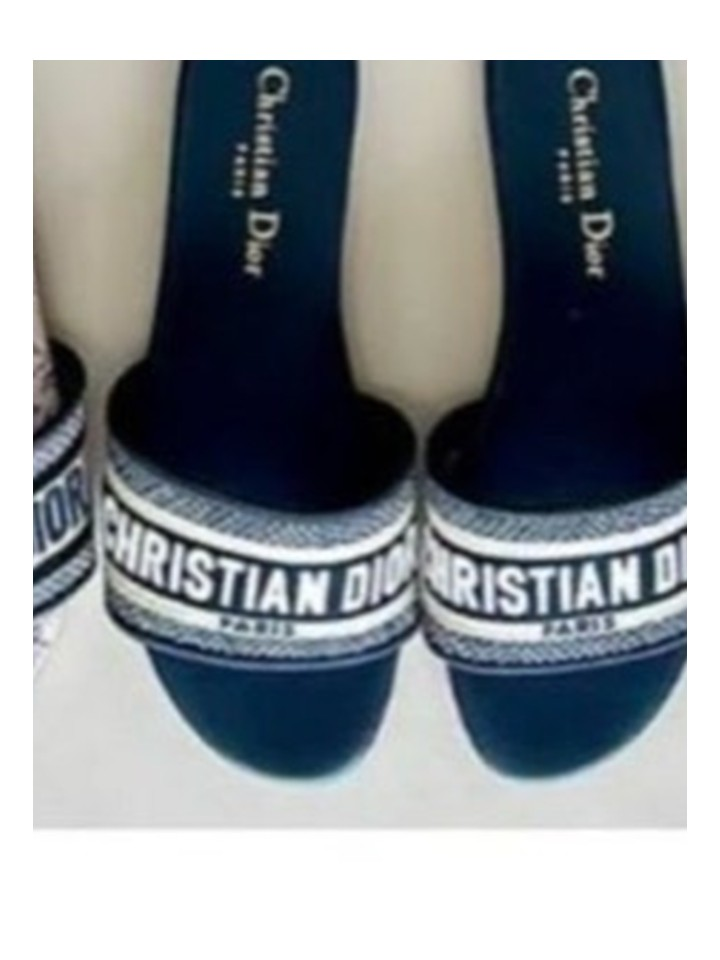
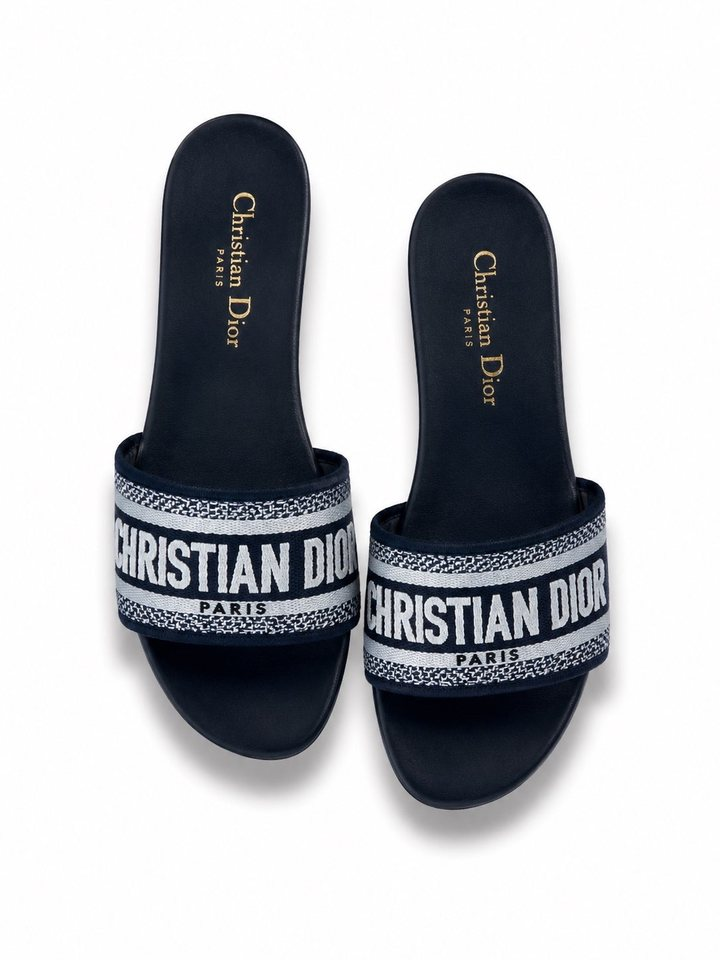
feat: cinq photos studio de plus pour les claquettes Dway
Rose, marine, gris anthracite, ivoire doré et toile rose remplacent des
recadrages pris dans la photo d'inventaire.

Deux coloris changent de nom pour dire ce que la cliente recevra :
« Bleu glacier » devient « Ivoire doré » — la paire est ivoire à motif
doré, sans rien de bleu — et « Lilas » devient « Toile rose », la toile de
Jouy étant rose et non mauve.

Onze des douze coloris ont désormais leur vraie photo. Seul « Noir
profond » attend encore la sienne.

diff --git a/catalog.js b/catalog.js
@@ -204,8 +204,8 @@
         desc: "Claquette à bride textile large, déclinée dans des motifs bleus, noirs et gris." }),
       make({ id: "femme-dior-dway-pastels", name: "Claquette Dway Tons Pastel", audience: "femme", brand: "dior", price: 48000,
         sizes: ["36", "37", "38", "39", "40", "41"], stock: [1, 2, 3, 3, 2, 1],
-        img: "assets/products/femme/dior-dway-rose.jpg", colors: ["Bleu glacier", "Noir profond", "Rose", "Lilas", "Marine", "Gris anthracite"],
-        valueImages: { "Coloris::Bleu glacier": "assets/products/femme/dior-dway-bleu-glacier.jpg", "Coloris::Noir profond": "assets/products/femme/dior-dway-noir-profond.jpg", "Coloris::Rose": "assets/products/femme/dior-dway-rose.jpg", "Coloris::Lilas": "assets/products/femme/dior-dway-lilas.jpg", "Coloris::Marine": "assets/products/femme/dior-dway-marine.jpg", "Coloris::Gris anthracite": "assets/products/femme/dior-dway-gris-anthracite.jpg" },
+        img: "assets/products/femme/dior-dway-rose.jpg", colors: ["Ivoire doré", "Noir profond", "Rose", "Toile rose", "Marine", "Gris anthracite"],
+        valueImages: { "Coloris::Ivoire doré": "assets/products/femme/dior-dway-bleu-glacier.jpg", "Coloris::Noir profond": "assets/products/femme/dior-dway-noir-profond.jpg", "Coloris::Rose": "assets/products/femme/dior-dway-rose.jpg", "Coloris::Toile rose": "assets/products/femme/dior-dway-lilas.jpg", "Coloris::Marine": "assets/products/femme/dior-dway-marine.jpg", "Coloris::Gris anthracite": "assets/products/femme/dior-dway-gris-anthracite.jpg" },
         desc: "Une seconde sélection de teintes pastel et profondes pour garder chaque fiche lisible." }),
       make({ id: "femme-birkenstock-boston-rose", name: "Sabot Boston Rose", audience: "femme", cat: "mules", brand: "birkenstock", price: 32000, badge: "Nouveau",
         sizes: ["36", "37", "38", "39", "40", "41"], stock: [1, 2, 3, 3, 2, 1],
@@ -214,8 +214,8 @@
         desc: "Sabot fermé en matière douce rose poudré, bride réglable et semelle contrastée." }),
       make({ id: "femme-hermes-chypre-bleu", name: "Sandale Chypre Bleu Glacier", audience: "femme", brand: "hermes", price: 55000,
         sizes: ["36", "37", "38", "39", "40", "41"], stock: [1, 2, 3, 3, 2, 1],
-        img: "assets/products/femme/hermes-chypre-bleu-studio.jpg", colors: ["Bleu glacier"],
-        valueImages: { "Coloris::Bleu glacier": "assets/products/femme/hermes-chypre-bleu-studio.jpg" },
+        img: "assets/products/femme/hermes-chypre-bleu-studio.jpg", colors: ["Ivoire doré"],
+        valueImages: { "Coloris::Ivoire doré": "assets/products/femme/hermes-chypre-bleu-studio.jpg" },
         desc: "Sandale bleu glacier à double bride, découpe H et semelle noire contrastée." })
     ];
   }

diff --git a/admin.html b/admin.html
@@ -224,7 +224,7 @@
     padding:8px 0;border-top:1px solid var(--line);font-size:13px}
   .aud-admin-card{max-width:720px;margin-bottom:20px}.aud-admin-head{display:flex;justify-content:space-between;align-items:flex-start;gap:16px;margin-bottom:20px}.aud-hero-preview{display:block;width:100%;max-height:260px;object-fit:cover;margin:0 0 10px}.aud-admin-products{display:grid;gap:8px;margin-top:12px}.aud-admin-product{display:flex;align-items:center;justify-content:space-between;gap:10px;border:1px solid var(--line);border-radius:8px;padding:8px}.aud-admin-product.selected{border-color:#111;background:#fafafa}.aud-admin-product label{display:flex;align-items:center;gap:10px;min-width:0;flex:1;cursor:pointer}.aud-admin-product img{width:44px;height:56px;object-fit:cover;border-radius:5px;background:#f1f1f1}.aud-admin-product span span{display:grid;min-width:0}.aud-admin-product b{font-size:13px}.aud-admin-product small{font-size:11px;color:var(--muted)}.aud-order{display:flex!important;align-items:center;gap:4px}.aud-order button{width:36px;height:36px;border:1px solid var(--line);background:#fff;border-radius:6px;font-weight:900;cursor:pointer}.aud-order i{width:24px;text-align:center;font-style:normal;font-size:11px;font-weight:800}@media(max-width:560px){.aud-admin-card{padding:16px}.aud-admin-head{align-items:flex-start}.aud-admin-product{align-items:flex-start}.aud-order{flex-wrap:wrap;justify-content:flex-end;max-width:76px}.aud-order i{order:-1;width:100%}}
 </style>
-<link rel="stylesheet" href="admin-dashboard.css?v=20260826a" />
+<link rel="stylesheet" href="admin-dashboard.css?v=20260826b" />
 </head>
 <body>
 
@@ -730,8 +730,8 @@
   <div class="toast" id="toast"></div>
 
 <script src="supabase.config.js"></script>
-<script src="supabase-client.js?v=20260826a"></script>
-<script src="catalog.js?v=20260826a"></script>
+<script src="supabase-client.js?v=20260826b"></script>
+<script src="catalog.js?v=20260826b"></script>
 <script>
 (function(){
   var KEY = "aura_store_v10";

diff --git a/produit.html b/produit.html
@@ -25,7 +25,7 @@
 <link rel="stylesheet" href="https://fonts.googleapis.com/css2?family=Inter:wght@400;700;800;900&display=swap"
       media="print" onload="this.media='all';this.onload=null" />
 <noscript><link rel="stylesheet" href="https://fonts.googleapis.com/css2?family=Inter:wght@400;700;800;900&display=swap" /></noscript>
-<link rel="stylesheet" href="boutique.css?v=20260826a" />
+<link rel="stylesheet" href="boutique.css?v=20260826b" />
 </head>
 <body data-page="produit">
 <noscript>
@@ -109,8 +109,8 @@
 </main>
 
 <script src="supabase.config.js"></script>
-<script src="supabase-client.js?v=20260826a"></script>
-<script src="catalog.js?v=20260826a"></script>
-<script src="boutique.js?v=20260826a"></script>
+<script src="supabase-client.js?v=20260826b"></script>
+<script src="catalog.js?v=20260826b"></script>
+<script src="boutique.js?v=20260826b"></script>
 </body>
 </html>

diff --git a/marques.html b/marques.html
@@ -26,7 +26,7 @@
 <link rel="stylesheet" href="https://fonts.googleapis.com/css2?family=Inter:wght@400;700;800;900&display=swap"
       media="print" onload="this.media='all';this.onload=null" />
 <noscript><link rel="stylesheet" href="https://fonts.googleapis.com/css2?family=Inter:wght@400;700;800;900&display=swap" /></noscript>
-<link rel="stylesheet" href="boutique.css?v=20260826a" />
+<link rel="stylesheet" href="boutique.css?v=20260826b" />
 </head>
 <body data-page="marques">
 <noscript>
@@ -69,8 +69,8 @@
 </main>
 
 <script src="supabase.config.js"></script>
-<script src="supabase-client.js?v=20260826a"></script>
-<script src="catalog.js?v=20260826a"></script>
-<script src="boutique.js?v=20260826a"></script>
+<script src="supabase-client.js?v=20260826b"></script>
+<script src="catalog.js?v=20260826b"></script>
+<script src="boutique.js?v=20260826b"></script>
 </body>
 </html>

diff --git a/femmes.html b/femmes.html
@@ -42,7 +42,7 @@
   "paymentAccepted": "Espèces à la livraison, espèces au retrait, Orange Money"
 }
 </script>
-<link rel="stylesheet" href="boutique.css?v=20260826a" />
+<link rel="stylesheet" href="boutique.css?v=20260826b" />
 </head>
 <body data-page="accueil" data-audience="femme">
 
@@ -175,8 +175,8 @@
 </main>
 
 <script src="supabase.config.js"></script>
-<script src="supabase-client.js?v=20260826a"></script>
-<script src="catalog.js?v=20260826a"></script>
-<script src="boutique.js?v=20260826a"></script>
+<script src="supabase-client.js?v=20260826b"></script>
+<script src="catalog.js?v=20260826b"></script>
+<script src="boutique.js?v=20260826b"></script>
 </body>
 </html>

diff --git a/hommes.html b/hommes.html
@@ -44,7 +44,7 @@
   "paymentAccepted": "Espèces à la livraison, espèces au retrait, Orange Money"
 }
 </script>
-<link rel="stylesheet" href="boutique.css?v=20260826a" />
+<link rel="stylesheet" href="boutique.css?v=20260826b" />
 </head>
 <body data-page="accueil" data-audience="homme">
 
@@ -177,8 +177,8 @@
 </main>
 
 <script src="supabase.config.js"></script>
-<script src="supabase-client.js?v=20260826a"></script>
-<script src="catalog.js?v=20260826a"></script>
-<script src="boutique.js?v=20260826a"></script>
+<script src="supabase-client.js?v=20260826b"></script>
+<script src="catalog.js?v=20260826b"></script>
+<script src="boutique.js?v=20260826b"></script>
 </body>
 </html>

diff --git a/index.html b/index.html
@@ -42,7 +42,7 @@
   "paymentAccepted": "Espèces à la livraison, espèces au retrait, Orange Money"
 }
 </script>
-<link rel="stylesheet" href="boutique.css?v=20260826a" />
+<link rel="stylesheet" href="boutique.css?v=20260826b" />
 </head>
 <body data-page="choix">
 
@@ -93,8 +93,8 @@
 </main>
 
 <script src="supabase.config.js"></script>
-<script src="supabase-client.js?v=20260826a"></script>
-<script src="catalog.js?v=20260826a"></script>
-<script src="boutique.js?v=20260826a"></script>
+<script src="supabase-client.js?v=20260826b"></script>
+<script src="catalog.js?v=20260826b"></script>
+<script src="boutique.js?v=20260826b"></script>
 </body>
 </html>

diff --git a/collection.html b/collection.html
@@ -38,7 +38,7 @@
   "paymentAccepted": "Espèces à la livraison"
 }
 </script>
-<link rel="stylesheet" href="boutique.css?v=20260826a" />
+<link rel="stylesheet" href="boutique.css?v=20260826b" />
 </head>
 <body data-page="collection">
 <noscript>
@@ -122,8 +122,8 @@
 </main>
 
 <script src="supabase.config.js"></script>
-<script src="supabase-client.js?v=20260826a"></script>
-<script src="catalog.js?v=20260826a"></script>
-<script src="boutique.js?v=20260826a"></script>
+<script src="supabase-client.js?v=20260826b"></script>
+<script src="catalog.js?v=20260826b"></script>
+<script src="boutique.js?v=20260826b"></script>
 </body>
 </html>

diff --git a/catalogue.html b/catalogue.html
@@ -39,7 +39,7 @@
   "paymentAccepted": "Espèces à la livraison"
 }
 </script>
-<link rel="stylesheet" href="boutique.css?v=20260826a" />
+<link rel="stylesheet" href="boutique.css?v=20260826b" />
 </head>
 <body data-page="catalogue">
 <noscript>
@@ -107,8 +107,8 @@
 </main>
 
 <script src="supabase.config.js"></script>
-<script src="supabase-client.js?v=20260826a"></script>
-<script src="catalog.js?v=20260826a"></script>
-<script src="boutique.js?v=20260826a"></script>
+<script src="supabase-client.js?v=20260826b"></script>
+<script src="catalog.js?v=20260826b"></script>
+<script src="boutique.js?v=20260826b"></script>
 </body>
 </html>

diff --git a/boutique.js b/boutique.js
@@ -545,7 +545,7 @@ window.AURA_IMG = function (img) {
   /* Les médias statiques sont servis un an en cache. Cette révision change
      leur URL à chaque livraison : le téléphone reçoit immédiatement la
      nouvelle image, puis la garde sans refaire de téléchargement inutile. */
-  var MEDIA_REV = "20260825a";
+  var MEDIA_REV = "20260826a";
   function mediaUrl(src){
     src = String(src || "");
     if (!/^(?:\.\/)?(?:assets|logos)\//.test(src)) return src;
